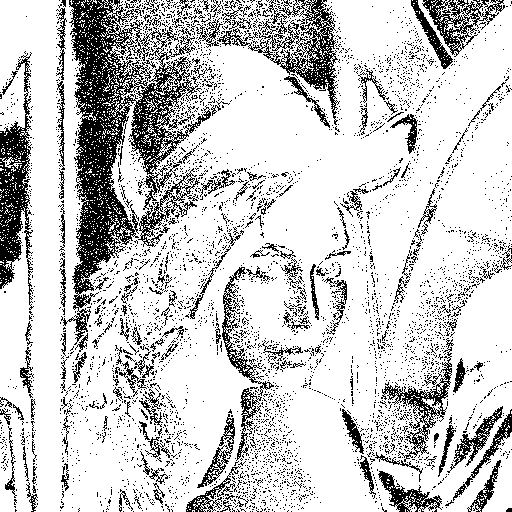
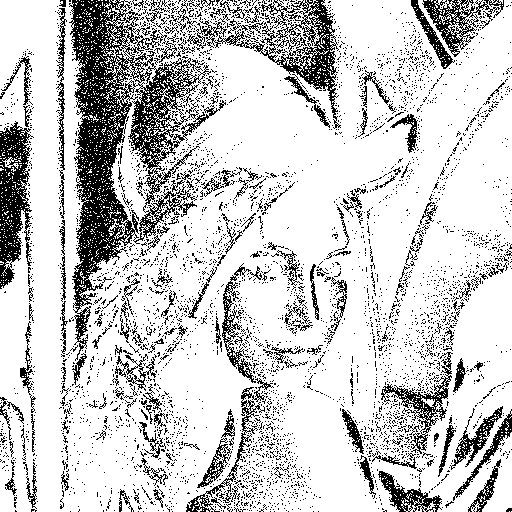
setup helper to loop through array and write to imagedata, then feed that into replaceCanvas:grey_exclamation:

diff --git a/lib/gleech.js b/lib/gleech.js
@@ -1,8 +1,11 @@
 (function() {
-  var Caman, andSort, numericSort, orSort, randminmax, randomSort, slice_range, sum, swapEnd32, xorSort,
+  var ArrayToCanvas, Caman, Canvas, andSort, numericSort, orSort, randminmax, randomSort, slice_range, sum, swapEnd32, xorSort,
     indexOf = [].indexOf || function(item) { for (var i = 0, l = this.length; i < l; i++) { if (i in this && this[i] === item) return i; } return -1; };
 
-  Caman = require('caman').Caman;
+  if (typeof require !== "undefined" && require !== null) {
+    Caman = require('caman').Caman;
+    Canvas = require('caman/node_modules/canvas');
+  }
 
   sum = function(arr) {
     return arr.reduce(function(t, s) {
@@ -69,6 +72,21 @@
     return [x, y];
   };
 
+  ArrayToCanvas = function(arr, width, height) {
+    var buff, can, ctx, data, i, k, len;
+    can = typeof exports !== "undefined" && exports !== null ? new Canvas() : document.createElement('canvas');
+    can.width = width;
+    can.height = height;
+    ctx = can.getContext('2d');
+    data = ctx.createImageData(width, height);
+    buff = new Uint8ClampedArray(arr);
+    for (k = 0, len = buff.length; k < len; k++) {
+      i = buff[k];
+      data[i] = buff[i];
+    }
+    return can;
+  };
+
   Caman.Filter.register('pixelate', function(pixelation) {
     if (pixelation == null) {
       pixelation = 5;
@@ -99,7 +117,7 @@
         }
       }
     }
-    this.pixelData = data;
+    this.replaceCanvas(ArrayToCanvas(data, width, height));
     return this;
   });
 
@@ -108,15 +126,17 @@
   });
 
   Caman.Plugin.register('fractalGhosts', function() {
-    var data, i, k, len;
+    var data, height, i, k, len, width;
     data = this.pixelData;
+    width = this.dimensions.width;
+    height = this.dimensions.height;
     for (k = 0, len = data.length; k < len; k++) {
       i = data[k];
       if (parseInt(data[i * 2 % data.length], 10) < parseInt(data[i], 10)) {
         data[i] = data[i * 2 % data.length];
       }
     }
-    this.pixelData = data;
+    this.replaceCanvas(ArrayToCanvas(data, width, height));
     return this;
   });
 
@@ -128,10 +148,12 @@
   });
 
   Caman.Plugin.register('fractalGhosts2', function(amount) {
-    var data, i, k, len, tmp;
+    var data, height, i, k, len, tmp, width;
     if (amount == null) {
       amount = 1 + Math.round(Math.random() * 10);
     }
+    width = this.dimensions.width;
+    height = this.dimensions.height;
     data = this.pixelData;
     for (k = 0, len = data.length; k < len; k++) {
       i = data[k];
@@ -142,7 +164,7 @@
         }
       }
     }
-    this.pixelData = data;
+    this.replaceCanvas(ArrayToCanvas(data, width, height));
     return this;
   });
 
@@ -157,13 +179,15 @@
   });
 
   Caman.Plugin.register('fractalGhosts3', function(amount, gap) {
-    var data, i, k, len, tmp;
+    var data, height, i, k, len, tmp, width;
     if (amount == null) {
       amount = 1 + Math.round(Math.random() * 10);
     }
     if (gap == null) {
       gap = 4;
     }
+    width = this.dimensions.width;
+    height = this.dimensions.height;
     data = this.pixelData;
     for (k = 0, len = data.length; k < len; k++) {
       i = data[k];
@@ -177,7 +201,7 @@
         }
       }
     }
-    this.pixelData = data;
+    this.replaceCanvas(ArrayToCanvas(data, width, height));
     return this;
   });
 
@@ -193,8 +217,8 @@
     cutend = Math.floor(Math.random() * (width * height * 4));
     cutstart = Math.floor(cutend / 1.7);
     cut = data.subarray(cutstart, cutend);
-    data.set(cut, Math.floor(Math.random() * ((width * height * 4) - cut.length)));
-    this.pixelData = data;
+    data.set(cut, Math.floor(Math.random() * cutstart));
+    this.replaceCanvas(ArrayToCanvas(data, width, height));
     return this;
   });
 
@@ -237,12 +261,11 @@
           for (r_x = r = 0, ref5 = size; 0 <= ref5 ? r < ref5 : r > ref5; r_x = 0 <= ref5 ? ++r : --r) {
             data[ind(y, r_y, x, r_x)] = avg_r;
             data[ind(y, r_y, x, r_x) + 1] = avg_g;
-            data[ind(y, r_y, x, r_x) + 2] = avg_b;
           }
         }
       }
     }
-    this.pixelData = data;
+    this.replaceCanvas(ArrayToCanvas(data, width, height));
     return this;
   });
 
@@ -266,8 +289,10 @@
   });
 
   Caman.Plugin.register('shortSort', function(algo) {
-    var da, data, mm;
+    var da, data, height, mm, width;
     data = new Uint32Array(this.pixelData);
+    width = this.dimensions.width;
+    height = this.dimensions.height;
     mm = slice_range(this.dimensions.width, this.dimensions.height, 1);
     da = data.subarray(mm[0], mm[1]);
     if (algo === '') {
@@ -275,8 +300,7 @@
     } else {
       Array.prototype.sort.call(da, this[algo]);
     }
-    data.set(da, mm[0]);
-    this.pixelData = data;
+    this.replaceCanvas(ArrayToCanvas(data, width, height));
     return this;
   });
 
@@ -300,7 +324,9 @@
   });
 
   Caman.Plugin.register('sort', function(algo) {
-    var da, data, mm;
+    var da, data, height, mm, width;
+    width = this.dimensions.width;
+    height = this.dimensions.height;
     data = new Uint32Array(this.pixelData);
     mm = randminmax(this.dimensions.width, this.dimensions.height, 1);
     da = data.subarray(mm[0], mm[1]);
@@ -310,7 +336,7 @@
       Array.prototype.sort.call(da, this[algo]);
     }
     data.set(da, mm[0]);
-    this.pixelData = data;
+    this.replaceCanvas(ArrayToCanvas(data, width, height));
     return this;
   });
 
@@ -323,16 +349,17 @@
     width = this.dimensions.width;
     height = this.dimensions.height;
     data = new Uint32Array(this.pixelData);
+    width = this.dimensions.width;
+    height = this.dimensions.height;
     mm = slice_range(width, height, 1);
     da = data.subarray(mm[0], mm[1]);
-    offset = Math.floor((Math.random() * (width * height)) - da.length);
+    offset = Math.abs(Math.floor((Math.random() * (width * height)) - da.length));
     if (algo === '') {
       Array.prototype.sort.call(da);
     } else {
       Array.prototype.sort.call(da, this[algo]);
     }
-    data.set(da, offset);
-    this.pixelData = data;
+    this.replaceCanvas(ArrayToCanvas(data, width, height));
     return this;
   });
 
@@ -357,15 +384,16 @@
 
   Caman.Plugin.register('sortRows', function(algo) {
     var cut, data, height, i, k, ref, ref1, width;
+    width = this.dimensions.width;
+    height = this.dimensions.height;
     data = new Uint32Array(this.pixelData);
     width = this.dimensions.width;
     height = this.dimensions.height;
     for (i = k = 0, ref = data.length, ref1 = width; ref1 > 0 ? k < ref : k > ref; i = k += ref1) {
       cut = data.subarray(i, i + width);
       Array.prototype.sort.call(cut, this[algo]);
-      data.set(cut, i);
     }
-    this.pixelData = data;
+    this.replaceCanvas(ArrayToCanvas(data, width, height));
     return this;
   });
 
@@ -400,9 +428,8 @@
       } else {
         Array.prototype.sort.call(da, this[algo]);
       }
-      data.set(da, i);
     }
-    this.pixelData = data;
+    this.replaceCanvas(ArrayToCanvas(data, width, height));
     return this;
   });
 
@@ -459,14 +486,14 @@
             data[index - mm[0]] = green;
             data[index - mm[0]] = blue;
           } else {
-            data[index - mm[0] + 1] = red;
+            data[index - mm[0]] = red;
             data[index] = green;
             data[index - mm[0]] = blue;
           }
         }
       }
     }
-    this.pixelData = data;
+    this.replaceCanvas(ArrayToCanvas(data, width, height));
     return this;
   });
 
@@ -475,13 +502,15 @@
   });
 
   Caman.Plugin.register('invert', function() {
-    var data, i, k, len;
+    var data, height, i, k, len, width;
+    width = this.dimensions.width;
+    height = this.dimensions.height;
     data = new Uint32Array(this.pixelData);
     for (k = 0, len = data.length; k < len; k++) {
       i = data[k];
       data[i] = ~data[i] | 0xFF000000;
     }
-    this.pixelData = data;
+    this.replaceCanvas(ArrayToCanvas(data, width, height));
     return this;
   });
 
@@ -562,6 +591,8 @@
     });
   });
 
-  exports.gleech = Caman;
+  if (typeof exports !== "undefined" && exports !== null) {
+    exports.gleech = Caman;
+  }
 
 }).call(this);
